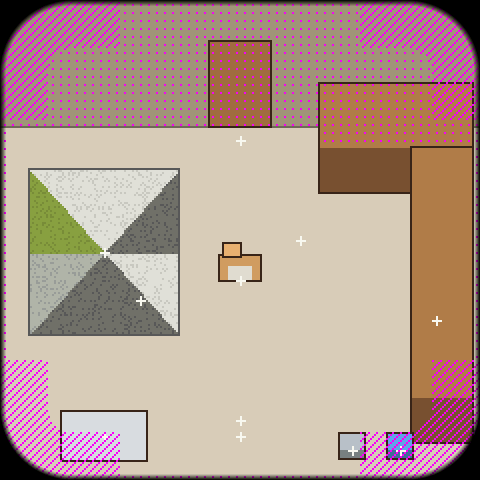
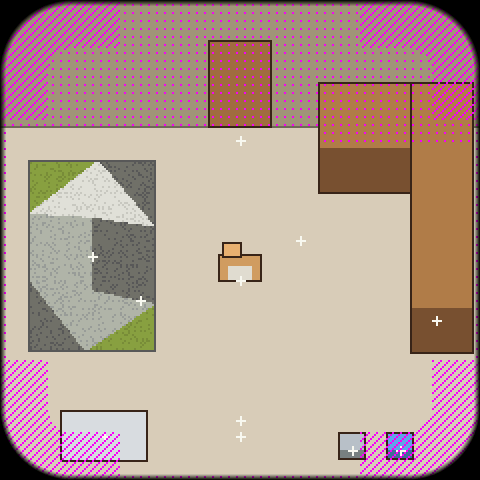
Room fix: the bench at its original length, only moved to the right wall, drawn as one L; the rug 3:2 (300 x 200 cm) with the photo's triangle pattern (12 triangles, edge functions)

Changed region(s): [[0.0625, 0.3125, 0.375, 0.75], [0.8438, 0.625, 1.0, 0.9375], [0.8438, 0.1875, 0.9688, 0.3125]]

diff --git a/common/lili/lili_world.c b/common/lili/lili_world.c
@@ -38,18 +38,42 @@ const map_t *world_map(const world_t *w, view_t v) { (void)w; return &MAPS[v]; }
 
 /* a prop seen from the 3/4 camera: its footprint (x, y, w, h) on the floor, raised by `height`:
    the top face is lighter, the front face darker, a 1 px outline around both (spec 7.1) */
-/* the owner's rug (photo, 2026-10-19): big triangles in four colours, cut by the two
-   diagonals and the middle line, with a shaggy speckle. The speckle comes from a hash of
-   the pixel's own position, so it is the same in every frame (no flicker, no PRNG state). */
+/* the owner's rug (photo reference/photos/rug_owner_room_2026-10-19.jpg, 300 x 200 cm, lying
+   lengthwise into the room). Its pattern as 12 triangles in rug coordinates (u across 0..1,
+   v along 0..1, from the far end): green top-left, dark grey top-right, a big off-white band
+   across the upper middle, light grey down the left, dark grey in the middle and right, dark
+   grey bottom-left, green bottom-right. The vertices: the corners, two points on each edge,
+   and two inside (P, Q); the 12 triangles tile the rectangle exactly. */
+enum { RUG_GREEN, RUG_WHITE, RUG_LIGHT, RUG_DARK };
+static const float RUG_V[12][2] = {
+    { 0, 0 }, { 1, 0 }, { 1, 1 }, { 0, 1 },                 /* A B C D: the corners */
+    { 0.55f, 0 }, { 1, 0.35f }, { 1, 0.75f }, { 0.45f, 1 }, /* E F G H: on the top, right, right, bottom edges */
+    { 0, 0.62f }, { 0, 0.28f },                             /* I J: on the left edge */
+    { 0.5f, 0.3f }, { 0.5f, 0.68f },                        /* P Q: inside */
+};
+enum { VA, VB, VC, VD, VE, VF, VG, VH, VI, VJ, VP, VQ };
+static const uint8_t RUG_T[12][4] = {                       /* three vertices and a colour */
+    { VA, VE, VJ, RUG_GREEN }, { VE, VB, VF, RUG_DARK },  { VJ, VE, VP, RUG_WHITE }, { VE, VF, VP, RUG_WHITE },
+    { VJ, VP, VI, RUG_LIGHT }, { VP, VF, VQ, RUG_DARK },  { VF, VG, VQ, RUG_DARK },  { VI, VP, VQ, RUG_LIGHT },
+    { VI, VQ, VH, RUG_LIGHT }, { VI, VH, VD, RUG_DARK },  { VQ, VG, VH, RUG_LIGHT }, { VG, VC, VH, RUG_GREEN },
+};
+static float edge(const float *a, const float *b, float u, float v) { return (b[0] - a[0]) * (v - a[1]) - (b[1] - a[1]) * (u - a[0]); }
+static int rug_colour(float u, float v) {                   /* the triangle holding (u, v): all three edge functions agree in sign */
+    for (int t = 0; t < 12; t++) {
+        const float *a = RUG_V[RUG_T[t][0]], *b = RUG_V[RUG_T[t][1]], *c = RUG_V[RUG_T[t][2]];
+        float e0 = edge(a, b, u, v), e1 = edge(b, c, u, v), e2 = edge(c, a, u, v);
+        if ((e0 >= 0 && e1 >= 0 && e2 >= 0) || (e0 <= 0 && e1 <= 0 && e2 <= 0)) return RUG_T[t][3];
+    }
+    return RUG_LIGHT;
+}
+/* the speckle (a shaggy pile) comes from a hash of the pixel's own position, so it is the
+   same in every frame: no flicker, no PRNG state */
 static void draw_rug(render8_t *r, const map_prop_t *p) {
-    const uint8_t col[8] = { pal_ramp(RAMP_ID_RUG_GREEN, 5), pal_ramp(RAMP_ID_RUG_GRAY, 7), pal_ramp(RAMP_ID_RUG_GRAY, 5), pal_ramp(RAMP_ID_RUG_GRAY, 2),
-                             pal_ramp(RAMP_ID_RUG_GRAY, 5), pal_ramp(RAMP_ID_RUG_GREEN, 5), pal_ramp(RAMP_ID_RUG_GRAY, 2), pal_ramp(RAMP_ID_RUG_GRAY, 7) };
+    const uint8_t col[4] = { pal_ramp(RAMP_ID_RUG_GREEN, 5), pal_ramp(RAMP_ID_RUG_GRAY, 7), pal_ramp(RAMP_ID_RUG_GRAY, 5), pal_ramp(RAMP_ID_RUG_GRAY, 2) };
     r8_fill(r, p->x, p->y, p->w, p->h, pal_ramp(RAMP_ID_RUG_GRAY, 1));          /* the bound edge */
     for (int y = 1; y < p->h - 1; y++)
         for (int x = 1; x < p->w - 1; x++) {
-            float u = (float)x / p->w, v = (float)y / p->h;
-            int region = (u > v) | ((u + v > 1.0f) << 1) | ((v > 0.5f) << 2);
-            uint8_t c = col[region];
+            uint8_t c = col[rug_colour((x + 0.5f) / p->w, (y + 0.5f) / p->h)];
             uint32_t hsh = (uint32_t)(p->x + x) * 73856093u ^ (uint32_t)(p->y + y) * 19349663u;
             if ((hsh >> 7) % 6 == 0) c = (uint8_t)(c - 1);                            /* a darker tuft: one shade down the ramp */
             int lx = p->x + x, ly = p->y + y;

diff --git a/common/lili/maps_gen.c b/common/lili/maps_gen.c
@@ -38,23 +38,23 @@ static const map_point_t pts_room[SPOT_COUNT] = {
     [SPOT_GRASS] = { 0, 0, -1 },
     [SPOT_NOOK] = { 218, 160, 0 },
     [SPOT_PAD] = { 52, 218, 0 },
-    [SPOT_RUG] = { 52, 126, 0 },
+    [SPOT_RUG] = { 46, 128, 0 },
     [SPOT_TREE] = { 0, 0, -1 },
 };
 static const map_prop_t props_room[] = {
     { "door", 104, 20, 32, 44, RAMP_ID_WOOD, 0, 1, 64, 0 },
-    { "rug", 14, 84, 76, 84, RAMP_ID_RUG_GRAY, 0, 1, 168, 1 },
+    { "rug", 14, 80, 64, 96, RAMP_ID_RUG_GRAY, 0, 1, 176, 1 },
     { "pad", 30, 205, 44, 26, RAMP_ID_PAD, 0, 1, 231, 0 },
-    { "bench_back", 160, 64, 76, 32, RAMP_ID_WOOD, 22, 0, 96, 0 },
-    { "bench_side", 206, 96, 30, 125, RAMP_ID_WOOD, 22, 0, 221, 0 },
+    { "bench_back", 160, 64, 46, 32, RAMP_ID_WOOD, 22, 0, 96, 0 },
+    { "bench_side", 206, 64, 30, 112, RAMP_ID_WOOD, 22, 0, 176, 0 },
     { "bowl_food", 170, 221, 12, 8, RAMP_ID_METAL, 4, 0, 229, 0 },
     { "bowl_water", 194, 221, 12, 8, RAMP_ID_WATER, 4, 0, 229, 0 },
 };
 static const int16_t poly_room_sunbeam[] = { 104, 70, 136, 70, 160, 150, 84, 150 };
 static const map_zone_t zones_room[] = {
     { "sunbeam", 1, 0, 0, 0, 0, poly_room_sunbeam, 4 },
-    { "nook", 0, 206, 96, 30, 125, 0, 0 },
-    { "rug", 0, 14, 84, 76, 84, 0, 0 },
+    { "nook", 0, 206, 96, 30, 80, 0, 0 },
+    { "rug", 0, 14, 80, 64, 96, 0, 0 },
     { "deco", 0, 100, 206, 40, 24, 0, 0 },
 };
 

diff --git a/sim/lili_main.c b/sim/lili_main.c
@@ -115,7 +115,11 @@ static int selftest(void) {
     }
     CHECK(room->props[0].x >= 0, "props exist");
     const map_prop_t *side = NULL; for (int i = 0; i < room->n_props; i++) if (!strcmp(room->props[i].name, "bench_side")) side = &room->props[i];
-    CHECK(side && LILI_LOG_W - (side->x + side->w) <= 5 && LILI_LOG_H - (side->y + side->h) <= 20, "the bench reaches near the right and bottom edges (owner, 2026-10-19)");
+    CHECK(side && LILI_LOG_W - (side->x + side->w) <= 5, "the bench stands at the right wall (owner, 2026-10-19)");
+    CHECK(side->y + side->h <= 180 && mask_rect_visible(side->x, side->y - side->height, side->w, side->h + side->height, 2),
+          "the bench keeps its length and stays clear of the bottom-right corner arc");
+    const map_prop_t *rug = NULL; for (int i = 0; i < room->n_props; i++) if (!strcmp(room->props[i].name, "rug")) rug = &room->props[i];
+    CHECK(rug && rug->h * 2 == rug->w * 3, "the rug is 3:2 like the real 300 x 200 cm one, lengthwise");
     /* the Y-sort, in the yard (H13): behind a bush Lili is covered by it, in front of it she covers it */
     world_init(&s_world, 1); actor_t *l = &s_world.actors[0];
     s_world.view = VIEW_YARD; l->view = VIEW_YARD;

diff --git a/docs/decisions.md b/docs/decisions.md
@@ -14,3 +14,5 @@
 | M1.4 / konzol | Az ESP32-S3 USB-Serial-JTAG konzolja könnyű alvás után nem tér vissza a PC felé (a port nyitható, adat nem jön, esptool sem éri el); a panel közben fut. Diag-mérésnél az eredmény a kijelzőről vagy az NVS-ben tárolt plog-ból olvasandó, a konzol újraéledéséhez USB ki-be. | 2026-10-19 | két alvásos próba |
 | szoba / szőnyeg | **Az ágy helyett a gazdi szobájának szőnyege** (fotó: `reference/photos/rug_owner_room_2026-10-19.jpg`): zöld, törtfehér, világos- és sötétszürke háromszögek, bolyhos. Lili ott játszott és aludt a gazdival, ezért lapos és járható, nem tiltott hely. Alsó sor harmadolva: pelenka a bal harmadban lent, étel és víz egymás mellett a jobb harmadban, középen az évszak dísze (`spot_deco`). **Hatás a specre:** a H7 "ágyra szökés" és a 9.6 "rajtakapás" az ágyhoz kötött; az M5/M6-ban "szőnyegre fekvés" változatra írandók át, a 10.4 akcióiban a `go_bed`/`sleep_bed` -> `go_rug`/`sleep_rug` (a séma még nem készült el, így nincs törés). A D-14 (takaró színe) tárgytalan. | 2026-10-19 | a gazdi kérése |
 | szoba / szélek | A sarokülő, a pelenka és a tálak 70 %-kal közelebb a jobb és az alsó szélhez (a széltávolság 30 %-a marad); a sarokülő oldalsó szára majdnem a képernyő aljáig fut, a tálak mellette. **A spec 5.2 biztonsági zónája átírva:** a "középpont legalább 24 logikai px-re a saroktól" szabály helyett az érinthető tárgy teljes téglalapja legyen az üvegen, legalább 2 logikai px-re a látható széltől (`mask_rect_visible`, selftest). Indok: a 24 becsült érték volt, a tárgyak (pl. a pelenka 88x52 fizikai px) bőven megérinthetők, és a gazdi a széleken kéri őket. A 2.16 érintéspontossága (pocket-tank: ~7-20 fizikai px) a 2 px-es margón túl a tárgyak méretében van. | 2026-10-19 | a gazdi kérése; a döntés az enyém, M4.3-ban a panelen ellenőrizendő |
+| szoba / javítás | A sarokülő az eredeti hosszában (oldalszár 112 logikai px a fal aljától), csak a jobb falhoz tolva, egy L-ként (a két szár közös sarokban, nem fed át). A szőnyeg 3:2 (300 x 200 cm), hosszában, a fotó háromszögmintájával (12 háromszög). Előzmény: az előző lépésben a "le a széléig" kérést tévesen a sarokülő meghosszabbításának értettem. | 2026-10-19 | a gazdi javítása |
+| M2.6 teendő | A szoba statikus hátterét (padló, fal, szőnyeg, lapos tárgyak) egyszer kell a vászon egy másolatába rajzolni (spec 7.2, 1. lépés), mert a szőnyeg pixelenkénti háromszögtesztje a PC-n is 99 us / képkocka. | 2026-10-19 | mérés: lilisim --bench |

diff --git a/TANULASI_NAPLO.md b/TANULASI_NAPLO.md
@@ -122,6 +122,14 @@ Hiba: a Python-heredocban írt C-stringben a `\n` megint valódi sortöréssé v
 
 Fogalmak: konvex alakzat (sarokellenőrzés)
 
+## 2026-10-19 | M2, 4d. lépés: a sarokülő és a szőnyeg javítása
+
+Készült: a sarokülő az eredeti hosszában a jobb falnál, egy L-ként; a szőnyeg 3:2-es, a fotó mintája 12 háromszögből, a háromszögön belüliséget élfüggvények döntik el.
+
+Döntés és hiba: a "le a széléig" kérést félreértettem (meghosszabbítottam a sarokülőt), és a szőnyeget általános X-mintára egyszerűsítettem; most a fotó és a valódi arányok az alap. Tanulság: térbeli kérésnél egy mondatban visszaigazolom, mit értettem (mozgatás vagy átméretezés), mielőtt átírom.
+
+Fogalmak: élfüggvény (pont a háromszögben)
+
 ## Fogalomtár
 
 **ext4 emergency_ro:** az ext4 fájlrendszer hibát észlel (pl. IO hiba egy hirtelen leállás után), és az adatvédelem miatt csak olvashatóra kapcsol; javítani csak lecsatolt állapotban, `e2fsck`-kal lehet.
@@ -201,3 +209,5 @@ Fogalmak: konvex alakzat (sarokellenőrzés)
 **hash-alapú textúra:** a pixel koordinátáiból egy keverőfüggvénnyel (hash) "véletlenszerű" számot képzünk, és ebből döntjük el, sötétebb-e. Mivel csak a koordinátától függ, minden képkockán ugyanaz, nem villog, és nem kell hozzá tárolt kép vagy PRNG-állapot.
 
 **konvex alakzat:** bármely két belső pontját összekötő szakasz is belül marad (pl. a lekerekített négyzet). Ezért ha egy téglalap mind a 4 sarka belül van, az egész téglalap belül van: 4 ellenőrzés elég a több ezer pixel helyett.
+
+**élfüggvény (pont a háromszögben):** egy él (a -> b) és egy pont p esetén a (b - a) x (p - a) kereszt-szorzat előjele megmondja, hogy p az él melyik oldalán van. Ha a háromszög mindhárom élére ugyanaz az előjel jön, a pont bent van; így rajzolják a háromszögeket a grafikus kártyák is.

diff --git a/docs/stats.md b/docs/stats.md
@@ -30,3 +30,4 @@ A pocket-tank saját mért adatai (upstream): `docs/pocket-tank-stats.md` és `d
 | 2026-10-19 | make LILI=1 check a /mnt/c-n | kb. 5 perc -> 5,4 s (az LVGL .d fájljai kimaradnak a Lili-célnál) | sim/Makefile |
 | 2026-10-19 | Kávamaszk a PC-n (lilisim --bench) | mask 18,7 us / képkocka (flush 23,6 us, render 0,9 us); a tábla 57 840 B, képkockánként kb. 22 ezer pixel érintett | WSL2 |
 | 2026-10-19 | Térképek (gen_maps) | szoba: 2057 / 3600 járható cella, udvar: 2575 / 3600; 18 pont; render a bútorokkal 4,1 us / képkocka a PC-n | tools/gen_maps.py, lilisim --bench |
+| 2026-10-19 | Render a szőnyeg háromszögmintájával | 98,6 us / képkocka a PC-n (előtte 12 us): a statikus háttér gyorsítótárba kerül az M2.6-ban | lilisim --bench |
